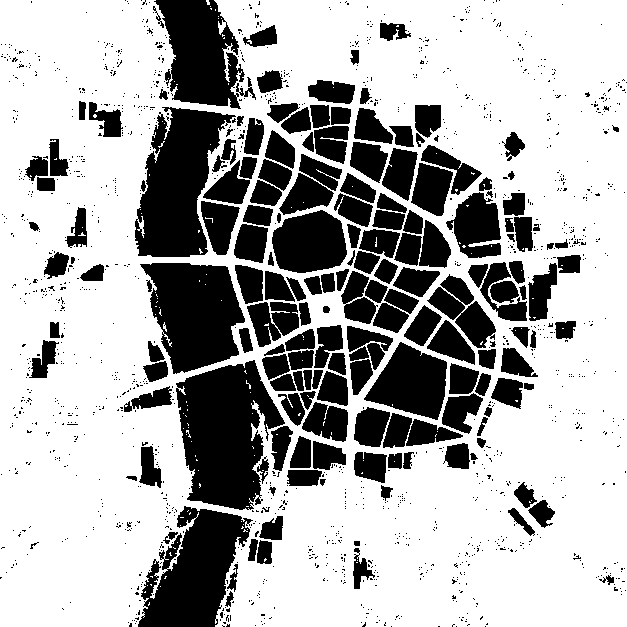
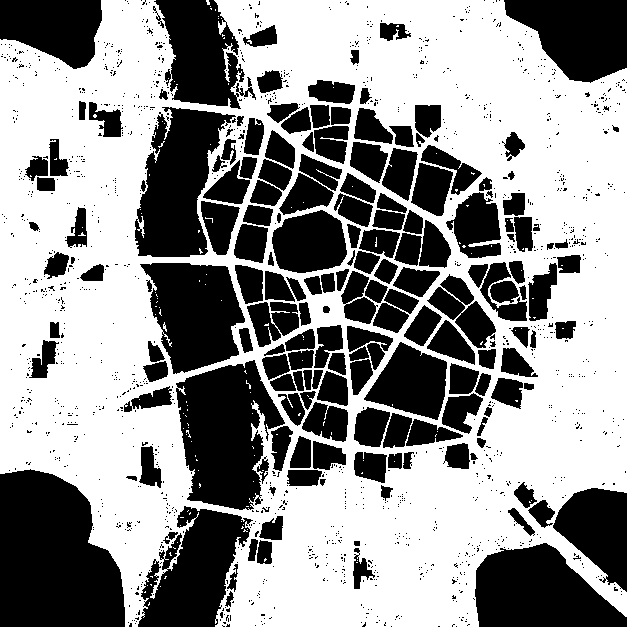
Redraw the corner hills and close them to vehicles
The hill outlines are traced again from close-up views of each corner
and now follow the contour lines on the picture; the south-east corner
is two hills with the road between them. Hills are taken out of the
vehicle layer, the roads past them stay open, and a test checks both.

diff --git a/tools/make_terrain_mask.py b/tools/make_terrain_mask.py
@@ -41,11 +41,20 @@ CELL = 2
 REFERENCE = 1254.0  # the hand-made coordinates below are for a picture this wide
 
 HILLS = [
-    [(0, 0), (195, 0), (190, 60), (170, 110), (120, 100), (60, 115), (0, 110)],
-    [(1005, 0), (1254, 0), (1254, 140), (1190, 150), (1130, 110), (1050, 90), (1010, 40)],
-    [(0, 945), (110, 945), (200, 985), (250, 1060), (250, 1254), (0, 1254)],
-    [(1090, 1000), (1150, 960), (1254, 980), (1254, 1254), (950, 1254), (960, 1160),
-     (1010, 1130), (1090, 1120)],
+    # North-west.
+    [(0, 0), (202, 0), (203, 40), (188, 75), (190, 108), (172, 132), (148, 138), (120, 118),
+     (90, 105), (60, 92), (30, 80), (0, 78)],
+    # North-east, down to the road.
+    [(1008, 0), (1254, 0), (1254, 135), (1215, 150), (1180, 165), (1140, 160), (1110, 125),
+     (1085, 98), (1075, 62), (1040, 45), (1012, 30)],
+    # South-west.
+    [(0, 948), (60, 938), (105, 948), (150, 972), (180, 1005), (185, 1050), (175, 1085),
+     (215, 1100), (240, 1140), (248, 1200), (250, 1254), (0, 1254)],
+    # South-east: two hills with the road running between them.
+    [(1150, 985), (1185, 975), (1254, 985), (1254, 1185), (1215, 1150), (1170, 1110),
+     (1130, 1075), (1105, 1055), (1118, 1020)],
+    [(952, 1140), (975, 1110), (1010, 1100), (1055, 1095), (1090, 1085), (1112, 1097),
+     (1140, 1130), (1188, 1180), (1254, 1236), (1254, 1254), (958, 1254), (950, 1190)],
 ]
 
 COLORS = {
@@ -133,10 +142,13 @@ def main():
     drive = (painted[..., 0] - painted[..., 2]) > 40
     streets = drive & built
 
-    outline = Image.new("L", picture.size, 0)
+    outline = Image.new("L", picture.size, 0)  # the hand-drawn hills
     for hill in HILLS:
         ImageDraw.Draw(outline).polygon([(x * scale, y * scale) for x, y in hill], fill=255)
     high = (np.asarray(outline) > 0) & ~water & ~built
+    # The owner asked for the corner hills to be closed to vehicles, although the
+    # red picture covers them.
+    drive &= ~high
     grove = (blurred(grey, 1.5) < 128) & ~water & ~built & ~high
 
     cells = size // CELL

diff --git a/docs/design.md b/docs/design.md
@@ -32,7 +32,9 @@
 Где может ездить техника, задаёт владелец: он красит разрешённое красным на копии карты
 (`assets/maps/source/city_vehicles.png`), и тот же скрипт превращает это в слой
 `assets/maps/city_drive.png`. Сейчас красным закрашены все улицы, площадь, мосты и открытая
-местность с полями и холмами; кварталы, дворы, крупные здания и река — нет.
+местность с полями; кварталы, дворы, крупные здания и река — нет. Холмы в углах карты
+на картинке тоже красные, но по указанию владельца закрыты для техники: скрипт вычитает
+их из слоя. Дороги мимо холмов остаются открытыми.
 
 Две вещи заданы вручную: главные дороги (список в `scripts/sim/map_library.gd`) и контуры
 высот (в скрипте маски). Дороги больше не решают, где техника проедет, — только где она
@@ -49,7 +51,7 @@
 | Здание | не проходит | не проходит | — |
 | Открытое место | идёт | едет, если закрашено красным | ничего, отряд на виду |
 | Сады и поля | идёт медленно | едет медленно, если закрашено | скрывает отряд |
-| Высота | идёт медленно | едет медленно, если закрашено | дальний обзор |
+| Высота | идёт медленно | не проходит | дальний обзор |
 | Вода | не проходит | не проходит | — |
 
 Техника ездит только там, где владелец закрасил карту красным. Пехота этим слоем не
